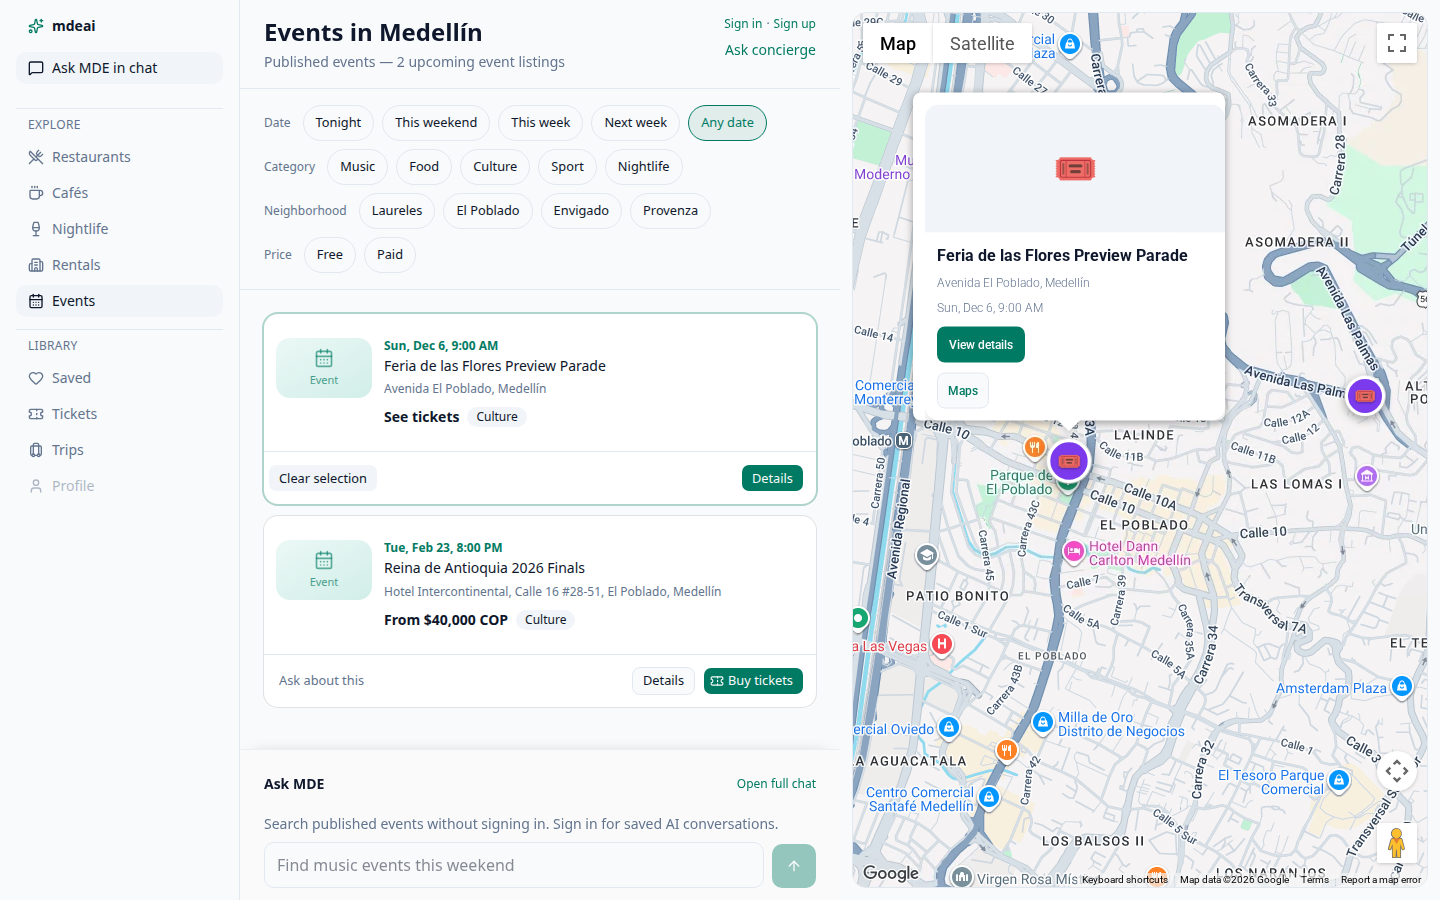
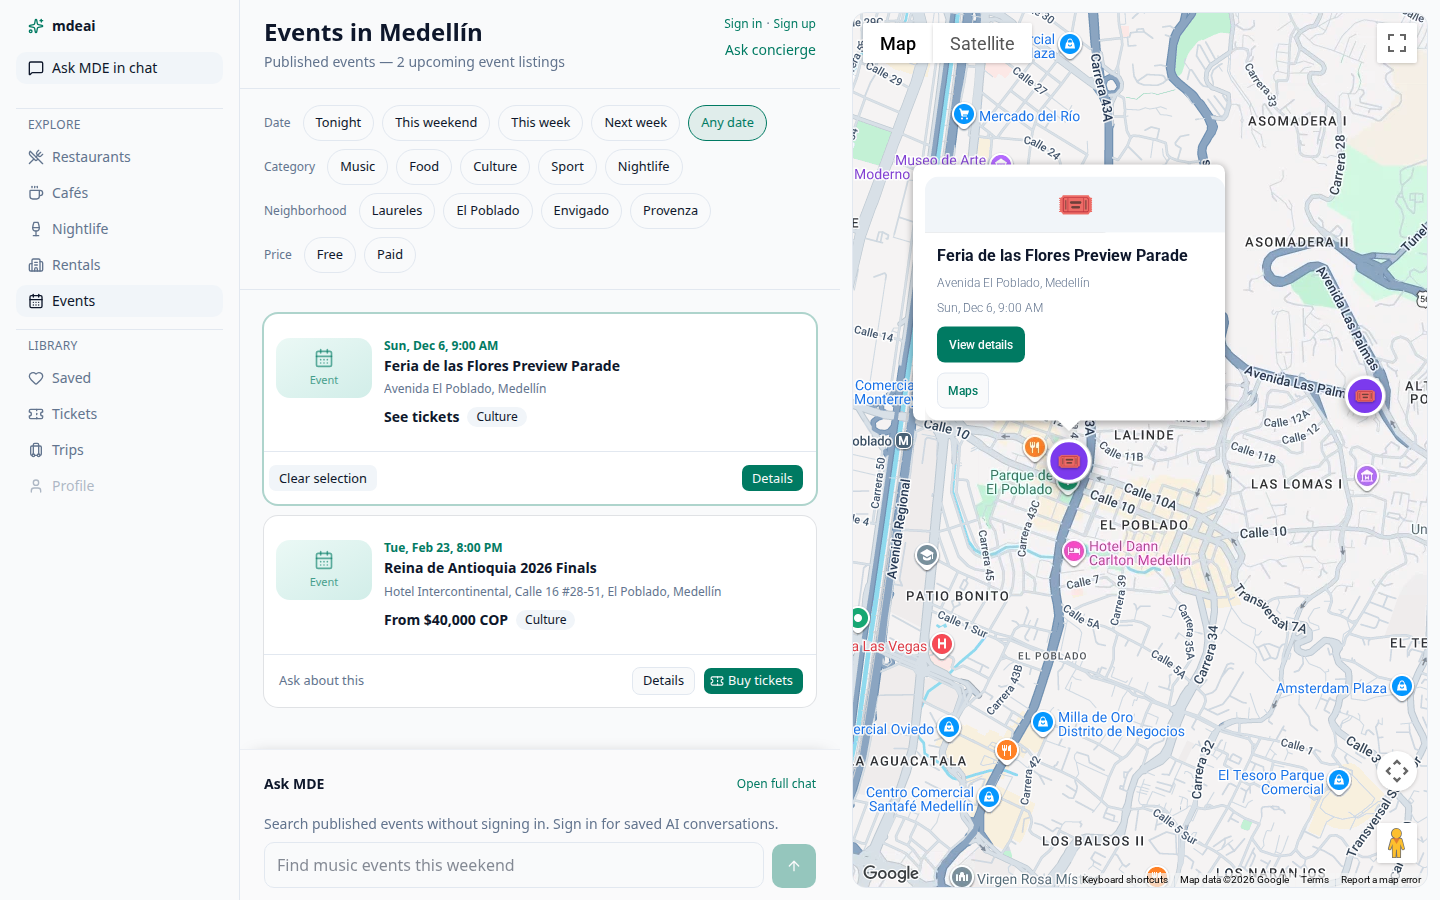
fix(events): scope a failed Ask search to its filters; compact event map card (SAN-972)
A failed Ask lookup and its Retry now belong to the filter scope they started in: changing
filters no longer leaves the old error or a Retry that would re-run the old search under
different filters (regression test added). The event map info card uses a short glyph strip
instead of the tall grey placeholder so the date and View details show sooner, and event
titles are slightly bolder. Screenshots refreshed.

Changed region(s): [[0.625, 0.0933, 0.875, 0.2489], [0.2812, 0.4044, 0.4375, 0.4356], [0.25, 0.6222, 0.4062, 0.6533]]

diff --git a/src/components/events/event-browse-view.tsx b/src/components/events/event-browse-view.tsx
@@ -60,10 +60,11 @@ function EventBrowseViewInner({
   const { selectedPinId, setSelectedPinId, panToPin } = useMapContext();
   const [selectedEventId, setSelectedEventId] = useState<string | null>(null);
   const [resolved, setResolved] = useState<{ scope: string; rows: PublishedEventListItem[] } | null>(null);
-  const [lookupError, setLookupError] = useState<string | null>(null);
-  const [loadingIds, setLoadingIds] = useState(false);
+  // A failure and an in-flight lookup belong to the filter scope they started in, with the IDs to retry, so a
+  // filter change can never leave an old error or Retry standing under different filters.
+  const [lookupFailure, setLookupFailure] = useState<{ scope: string; message: string; ids: string[] } | null>(null);
+  const [loadingScope, setLoadingScope] = useState<string | null>(null);
   const inFlight = useRef<AbortController | null>(null);
-  const lastIds = useRef<string[]>([]);
   const scope = buildFilterUrl({ category, neighborhood, dateWindow, price });
   useEffect(() => () => inFlight.current?.abort(), []);
 
@@ -75,9 +76,8 @@ function EventBrowseViewInner({
     inFlight.current?.abort();
     const controller = new AbortController();
     inFlight.current = controller;
-    lastIds.current = ids;
-    setLookupError(null);
-    setLoadingIds(true);
+    setLookupFailure(null);
+    setLoadingScope(scope);
     try {
       if (ids.length === 0) {
         setResolved({ scope, rows: [] });
@@ -101,10 +101,10 @@ function EventBrowseViewInner({
         // The failed search must not leave the previous search's results standing as its answer:
         // fall back to the canonical browse results for the current filters and offer Retry.
         setResolved(null);
-        setLookupError(e instanceof Error ? e.message : "Could not load events.");
+        setLookupFailure({ scope, ids, message: e instanceof Error ? e.message : "Could not load events." });
       }
     } finally {
-      if (!controller.signal.aborted) setLoadingIds(false);
+      if (!controller.signal.aborted) setLoadingScope(null);
     }
   }, [scope]);
   const onAgentResults = useCallback((result: DiscoveryAgentResult) => {
@@ -193,12 +193,12 @@ function EventBrowseViewInner({
       }
     >
       <section className="@container mt-6" aria-label="Event listings">
-        {loadingIds ? <p role="status" className="mb-3 text-sm">Confirming event details…</p> : null}
-        {lookupError ? (
+        {loadingScope === scope ? <p role="status" className="mb-3 text-sm">Confirming event details…</p> : null}
+        {lookupFailure?.scope === scope ? (
           <div role="alert" className="mb-3 flex flex-wrap items-center gap-x-3 gap-y-1 text-sm text-destructive" data-testid="events-lookup-error">
-            <span>{lookupError} Showing all events for these filters.</span>
+            <span>{lookupFailure.message} Showing all events for these filters.</span>
             <Button type="button" variant="outline" size="sm" data-testid="events-lookup-retry"
-              onClick={() => void resolveIds(lastIds.current)}>
+              onClick={() => void resolveIds(lookupFailure.ids)}>
               Retry
             </Button>
           </div>

diff --git a/src/components/events/__tests__/event-browse-view-map.test.tsx b/src/components/events/__tests__/event-browse-view-map.test.tsx
@@ -195,6 +195,22 @@ describe("EventBrowseView — Ask MDE results", () => {
     expect(fetchMock).toHaveBeenLastCalledWith(expect.stringContaining("ids=b"), expect.anything());
   });
 
+  it("a failed search does not leave its error or Retry under different filters", async () => {
+    const { rerender } = render(<EventBrowseView {...props} results={[A, B]} />);
+    fetchMock.mockResolvedValueOnce({ ok: false, json: () => Promise.resolve({}) } as Response);
+    search(["a"]);
+    await screen.findByTestId("events-lookup-error");
+    rerender(<EventBrowseView {...props} category="music" results={[B]} />);
+    expect(screen.queryByTestId("events-lookup-error")).toBeNull();
+    expect(screen.queryByTestId("events-lookup-retry")).toBeNull();
+    // Back on the original filters the same failure is still that search's, and Retry repeats exactly it.
+    rerender(<EventBrowseView {...props} results={[A, B]} />);
+    fetchMock.mockResolvedValueOnce(ok([A]));
+    await userEvent.setup().click(await screen.findByTestId("events-lookup-retry"));
+    await screen.findByTestId("guest-event-results-count");
+    expect(fetchMock).toHaveBeenLastCalledWith(expect.stringContaining("ids=a"), expect.anything());
+  });
+
   it("a slow older response can never replace a newer search", async () => {
     render(<EventBrowseView {...props} results={[A, B]} />);
     const gate: { release?: (response: Response) => void } = {};

diff --git a/src/components/maps/SelectedPlaceOverlayCard.tsx b/src/components/maps/SelectedPlaceOverlayCard.tsx
@@ -64,7 +64,8 @@ export function SelectedPlaceOverlayCard({ pin }: SelectedPlaceOverlayCardProps)
           </div>
         ) : (
           <div
-            className="flex h-32 items-center justify-center bg-muted text-4xl"
+            // Events have no photo to show: a short glyph strip, so the date and Details come into view sooner.
+            className={pin.category === "event" ? "flex h-14 items-center justify-center bg-muted text-3xl" : "flex h-32 items-center justify-center bg-muted text-4xl"}
             data-testid="selected-place-overlay-photo-placeholder"
             aria-hidden
           >

diff --git a/src/components/maps/__tests__/selected-place-overlay-card.test.tsx b/src/components/maps/__tests__/selected-place-overlay-card.test.tsx
@@ -64,4 +64,10 @@ describe("SelectedPlaceOverlayCard", () => {
     expect(groundedHtml).toContain("selected-place-overlay-save");
     expect(groundedHtml).toContain("selected-place-overlay-add-trip");
   });
+
+  it("uses a short placeholder strip for events and the full one for other places", () => {
+    const strip = (pin: MapPin) => renderToStaticMarkup(<SelectedPlaceOverlayCard pin={{ ...pin, meta: {} }} />);
+    expect(strip({ ...groundedPin, id: "event-3", category: "event" })).toContain("h-14");
+    expect(strip(groundedPin)).toContain("h-32");
+  });
 });

diff --git a/src/components/events/event-browse-card.tsx b/src/components/events/event-browse-card.tsx
@@ -141,7 +141,7 @@ export function EventBrowseCard({
       }
     >
       <p className="text-xs font-semibold text-primary">{formatEventStartsAt(event.startsAt)}</p>
-      <h3 className="mt-0.5 font-medium leading-snug">{event.title}</h3>
+      <h3 className="mt-0.5 font-semibold leading-snug">{event.title}</h3>
       <p className="mt-1 line-clamp-2 text-xs leading-5 text-muted-foreground">
         {event.venue}
         {event.neighborhood && !event.venue.includes(event.neighborhood) ? ` · ${event.neighborhood}` : ""}
